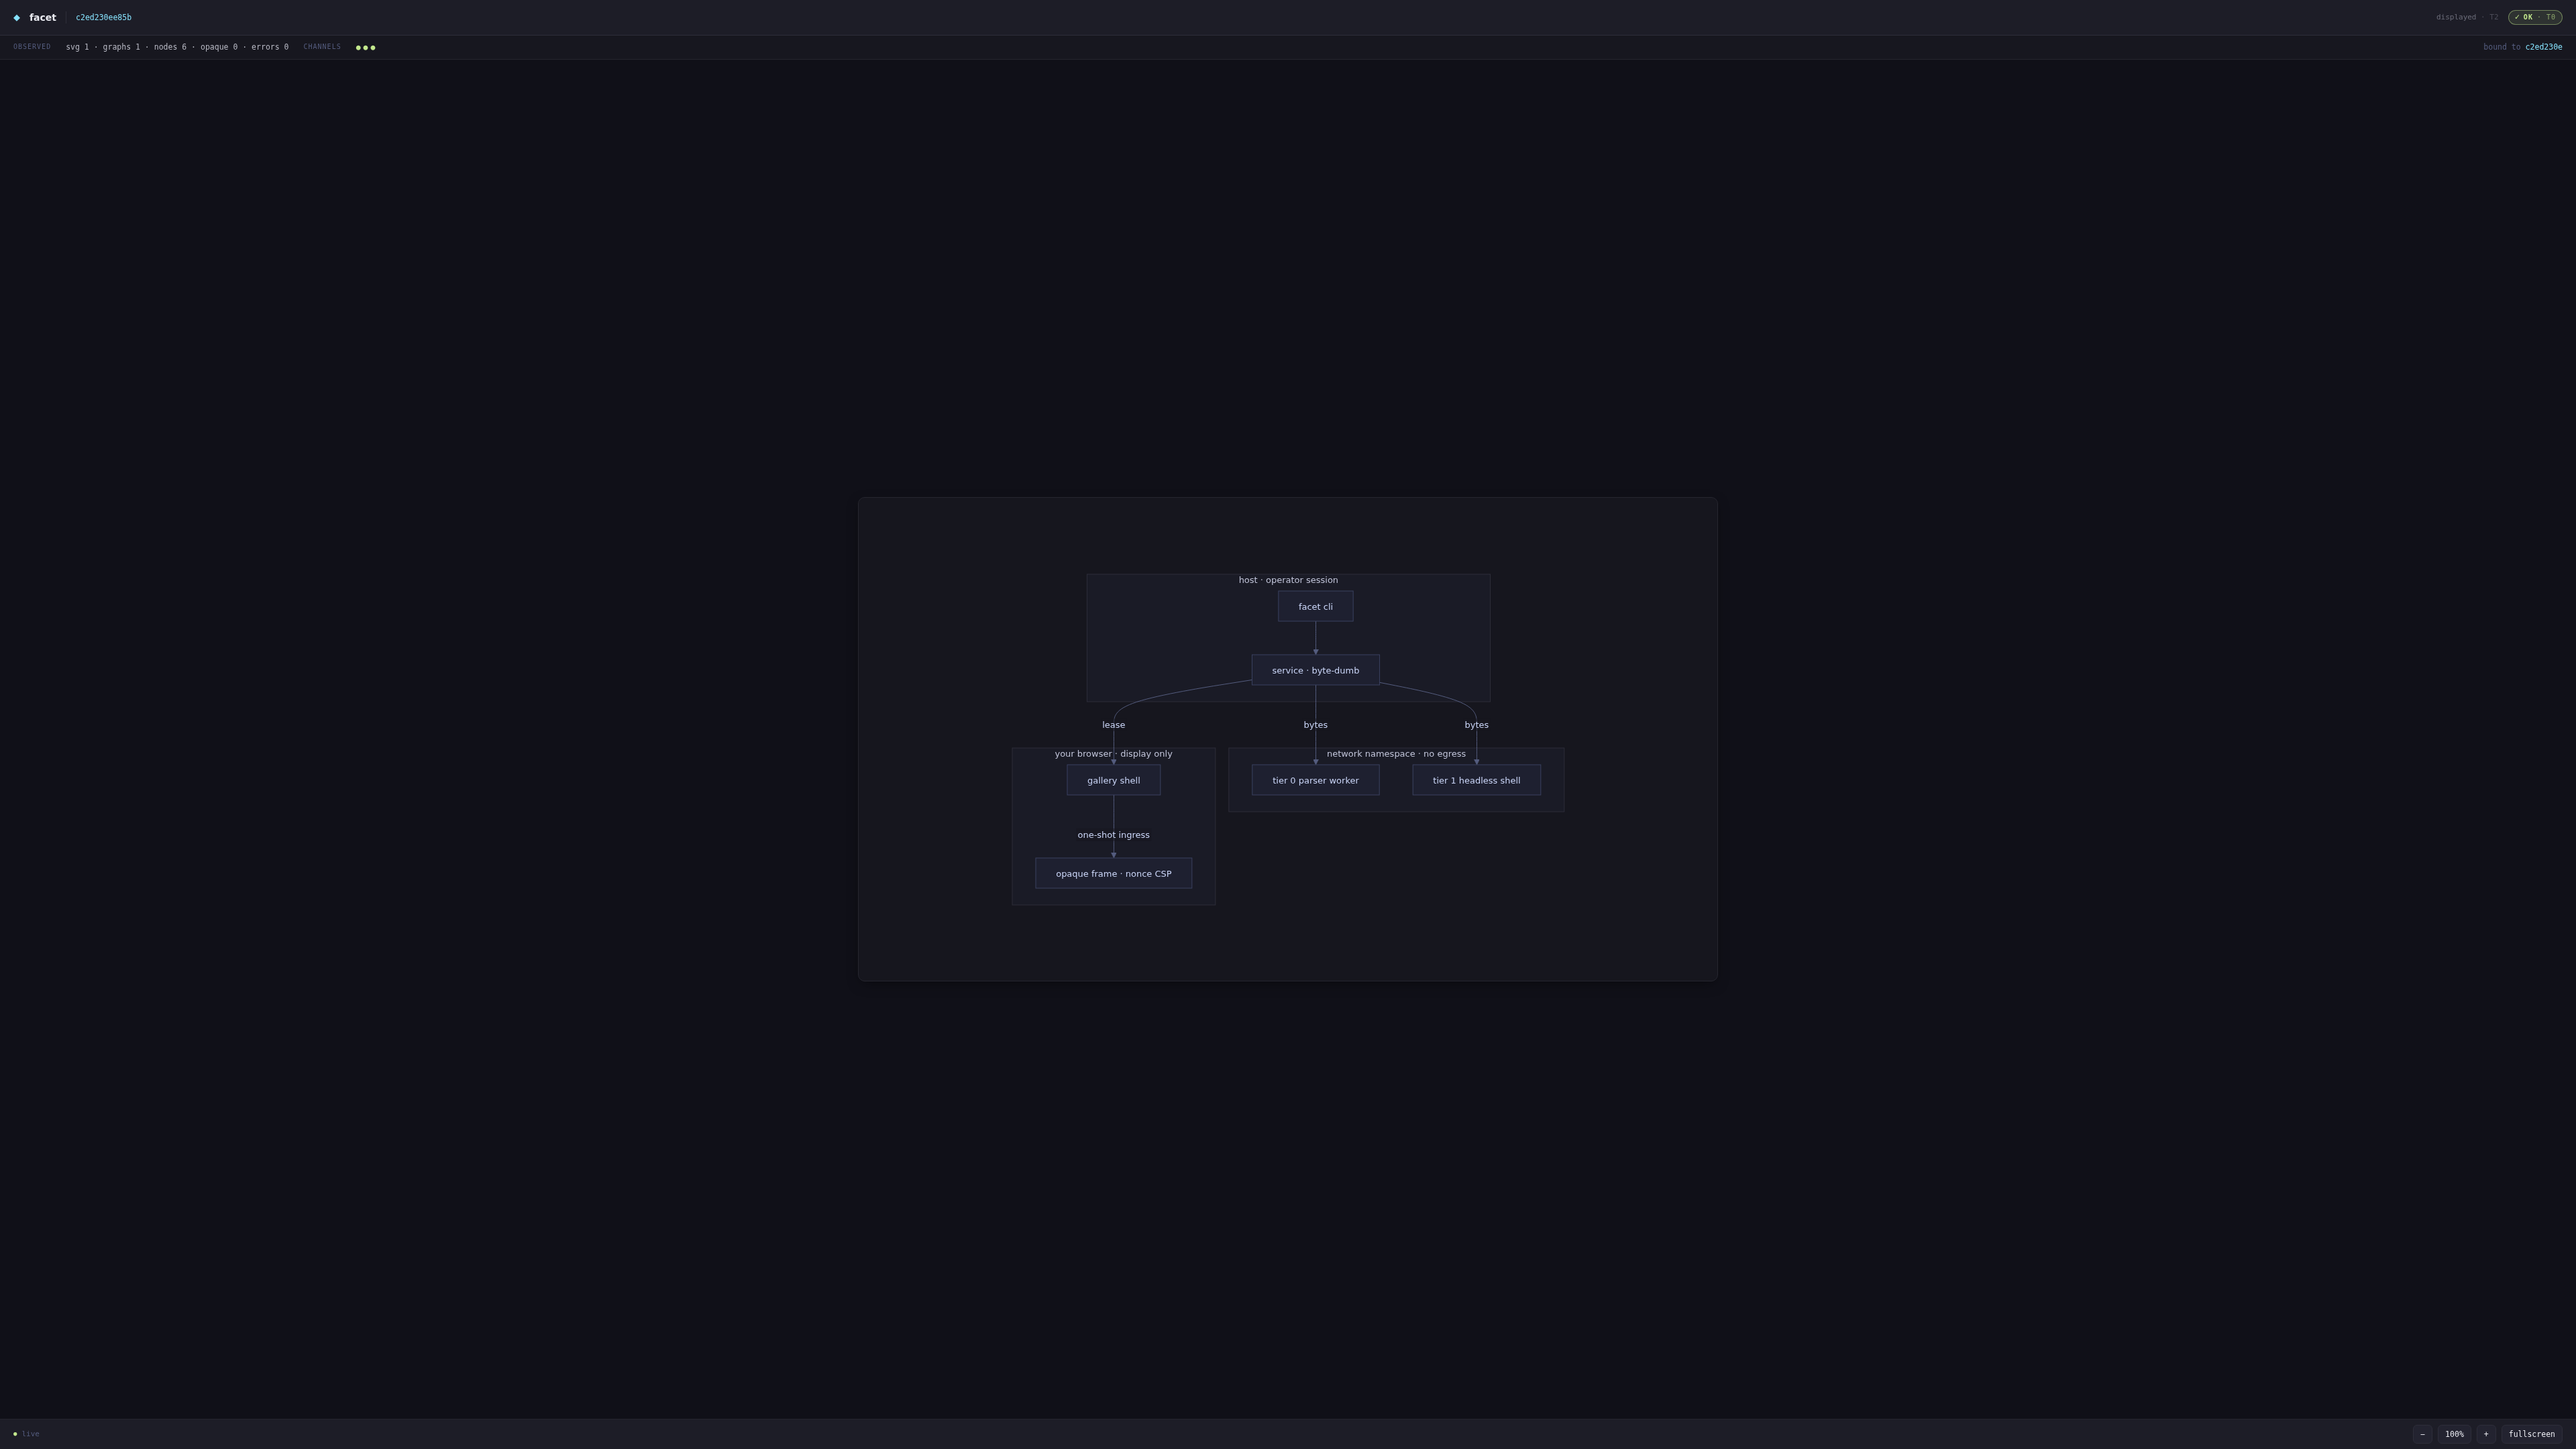
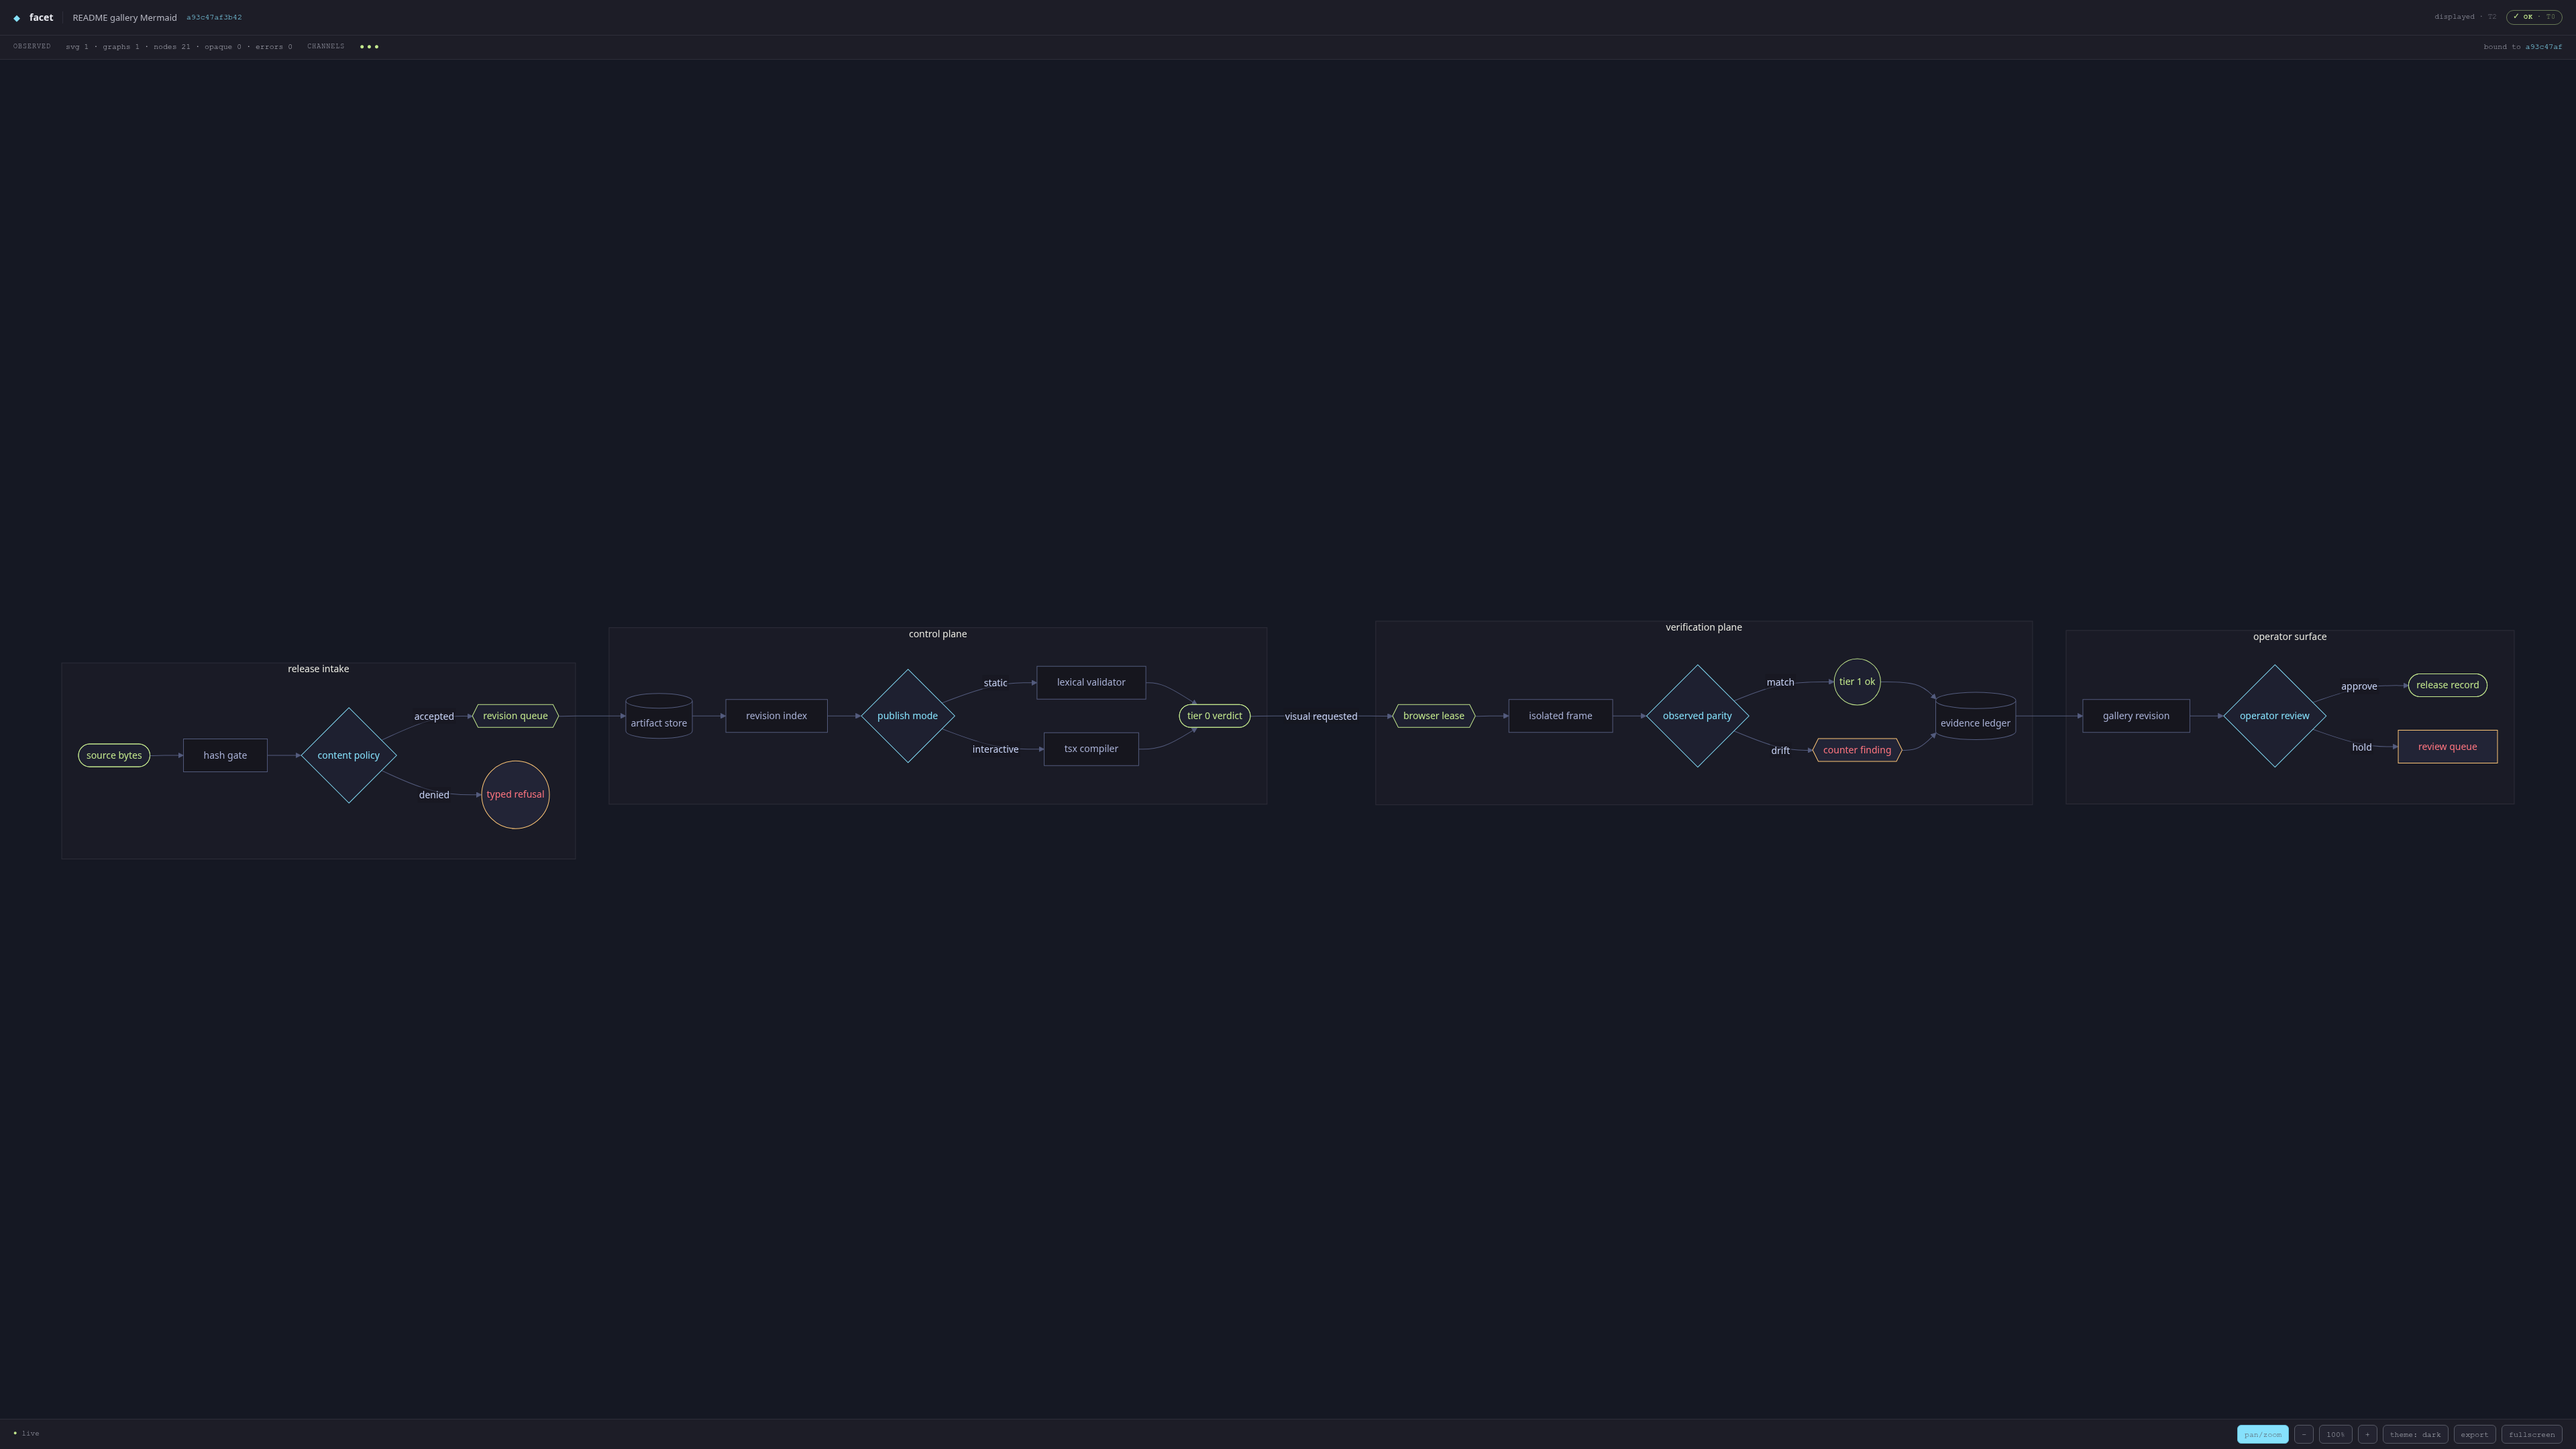
docs: refresh README for current contracts + regenerate gallery screenshots

diff --git a/tests/unit/gallery-evidence-docs.test.ts b/tests/unit/gallery-evidence-docs.test.ts
@@ -99,4 +99,12 @@ describe("gallery evidence documentation", () => {
     expect(skill).toMatch(/operator-only/i);
     expect(skill).toMatch(/do not run `?facet open`?.*agent/is);
   });
+
+  test("README names current publish verdict and WebP evidence behavior", () => {
+    const readme = readRepositoryFile("README.md");
+
+    expect(readme).toMatch(/publish envelope[\s\S]*verdict/i);
+    expect(readme).toMatch(/WebP[\s\S]*whole artifact/i);
+    expect(readme).toMatch(/system[\s\S]*dark[\s\S]*light|system[\s\S]*light[\s\S]*dark/i);
+  });
 });

diff --git a/README.md b/README.md
@@ -21,19 +21,23 @@ Facet stores the source bytes without interpreting them, then asks independent v
 
 - Publishes `markdown`, `mermaid`, `svg`, `chart`, static `html`, and declared-mode `tsx` artifacts.
 - Stores immutable revisions and keeps a ring of up to 50 per artifact.
-- Runs Tier 0 browser-free checks, Tier 1 isolated browser validation, and Tier 2 display-only inspection.
+- Records a stored Tier 0 verdict in every publish response; Tier 1 isolated browser validation and Tier 2 display-only inspection are explicit follow-up work.
 - Compares lexical expectations with protocol, isolated-world, and page-shim observations.
 - Serves a sandboxed, loopback gallery with revision-bound evidence and SSE updates.
-- Retains Tier 1 screenshots, console output, and protocol observations under an owner-only evidence directory.
+- Retains Tier 1 WebP captures of the whole artifact, console output, and protocol observations under an owner-only evidence directory. Interactive TSX declares animated WebP eligibility; static artifacts become eligible only when live CSS or Web Animations are detected.
+- Defaults the gallery theme to `system`; users can choose `dark` or `light` and the tab keeps that choice.
+- File-mode export returns local artifact and required sidecar paths with byte counts; `--include-bytes` opts into base64 in the envelope.
 - Keeps the service byte-dumb: renderers and parsers stay outside `src/service/**`.
 
 <p align="center">
-  <img src="design/screenshots/gallery-mermaid.png" alt="facet gallery — a mermaid artifact on the verification stage, verdict badge ok · T0, evidence strip showing svg 1 · graphs 1 · nodes 6 · opaque 0 · errors 0" width="820">
+  <img src="design/screenshots/gallery-mermaid.png" alt="facet gallery — current Mermaid fixture in the resolved dark theme" width="820">
 </p>
 
 <p align="center">
-  <img src="design/screenshots/gallery-chart.png" alt="facet gallery — a Vega-Lite chart artifact rendered under the frozen nonce-only CSP" width="820">
+  <img src="design/screenshots/gallery-chart.png" alt="facet gallery — current chart fixture in the resolved light theme" width="820">
 </p>
+
+Current gallery captures use the Mermaid fixture in resolved dark and the chart fixture in resolved light. They are 3840×2160 PNG display assets; Tier 1 evidence is WebP for the whole artifact.
 
 ## Verdict language
 
@@ -46,12 +50,13 @@ The gallery and CLI use the same wire enum, glyph, hue, and treatment.
 | `partial:layout_unverified`  | `◐`   | `#ffc777` | outline; screenshot required     |
 | `partial:opaque_content`     | `◐`   | `#ffc777` | outline; screenshot required     |
 | `partial:external_resources` | `◐`   | `#ffc777` | outline; screenshot required     |
+| `partial:unstable`           | `◐`   | `#ffc777` | outline; screenshot required     |
 | `tampered`                   | `⊘`   | `#ff757f` | filled alarm badge               |
 | `timeout`                    | `◌`   | `#737aa2` | dim outline                      |
 | `shim_only`                  | `◇`   | `#737aa2` | dim outline                      |
 | `probe_only`                 | `◈`   | `#737aa2` | dim outline                      |
 
-`partial:external_resources` means an artifact references external HTTPS images the no-egress verifier could not load. `insecure:unvalidated` means level 3 intentionally skipped validation. A missing verdict is `UNVERIFIED` with no tier.
+`partial:external_resources` means an artifact references external HTTPS images the no-egress verifier could not load. An `ok` verdict can still carry `Verdict.screenshotError.code: "screenshot_unavailable"` when whole-artifact capture cannot be produced; it records the limit without changing the validation result. `insecure:unvalidated` means level 3 intentionally skipped validation. A missing verdict is `UNVERIFIED` with no tier.
 
 ## Why not just screenshot it?
 
@@ -66,9 +71,9 @@ A screenshot is evidence of pixels. It is not evidence that the page's own repor
 ## What's in the box
 
 - **CLI contract** — `create`, `publish`, `list`, `read-back`, `status`, `open`, `promote`, `instantiate`, `pin`, and `export` (source/render with a mandatory sidecar).
-- **Artifact types** — Markdown, Mermaid, SVG, Vega-Lite chart specs, and static HTML. Chart data must be inline; external `data.url` forms are rejected. HTML is script-free, has no `<style>` block or `style=` attribute, and styles from a vendored Tailwind/daisyUI vocabulary ([reference](docs/reference/html.md)).
+- **Artifact types** — Markdown, Mermaid, SVG, Vega-Lite chart specs, static HTML, and static or interactive TSX. Chart data must be inline; external `data.url` forms are rejected. HTML is script-free, has no `<style>` block or `style=` attribute, and styles from a vendored Tailwind/daisyUI vocabulary ([reference](docs/reference/html.md)).
 - **Gallery** — an offline-built shell with a direct-frame render API, a restrictive per-artifact CSP, zoom controls, and revision SSE.
-- **Validation** — a 5 MiB source cap, up to 64 Mermaid blocks and 10,000 Mermaid nodes, and a 1 MiB SVG cap with 16 roots. Tier 1 uses pinned `chrome-headless-shell` `151.0.7922.77`.
+- **Validation** — a 5 MiB source cap, up to 64 Mermaid blocks and 10,000 Mermaid nodes, and a 1 MiB SVG cap with 16 roots. Tier 1 uses pinned `chrome-headless-shell` `151.0.7922.77`; v9 evidence-format metadata is documented in the [Export reference](docs/reference/export.md).
 - **Templates** — eleven checked-in starting points in [`templates/`](templates/), documented in [`templates/README.md`](templates/README.md).
 
 ## Quickstart
@@ -78,16 +83,20 @@ Requires Bun `1.4.0` or newer. Bun 1.4.0 fixes oven-sh/bun#37230, the fd-reuse b
 ```sh
 bun install
 
-bun ./src/cli/main.ts status
-bun ./src/cli/main.ts create --project-id demo --slug chart --title "Chart"
-printf '%s' "$SOURCE" | bun ./src/cli/main.ts publish --artifact-id <id> --type markdown --file -
-bun ./src/cli/main.ts read-back --artifact-id <id> --revision-sha <sha> --tier 0
-bun ./src/cli/main.ts read-back --artifact-id <id> --revision-sha <sha> --tier visual
-bun ./src/cli/main.ts open --artifact-id <id> --revision-sha <sha>
-bun ./src/cli/main.ts export <artifactId> --format source
+export FACET_HOME="$(mktemp -d)"
+SOURCE='# Facet quickstart'
+bun ./src/cli/main.ts status --start
+ARTIFACT_ID="$(bun ./src/cli/main.ts create --project-id demo --slug chart --title "Chart" | bun -e 'const x=JSON.parse(await Bun.stdin.text()); if(!x.ok) throw new Error(x.error.code); console.log(x.data.artifact.id)')"
+PUBLISH="$(printf '%s' "$SOURCE" | bun ./src/cli/main.ts publish --artifact-id "$ARTIFACT_ID" --type markdown)"
+printf '%s\n' "$PUBLISH" | bun -e 'const x=JSON.parse(await Bun.stdin.text()); if(!x.ok || !x.data.verdict) throw new Error("publish failed"); console.log(JSON.stringify(x.data.verdict))'
+REVISION_SHA="$(printf '%s\n' "$PUBLISH" | bun -e 'const x=JSON.parse(await Bun.stdin.text()); console.log(x.data.revision.sha256)')"
+bun ./src/cli/main.ts read-back --artifact-id "$ARTIFACT_ID" --tier 0
+bun ./src/cli/main.ts read-back --artifact-id "$ARTIFACT_ID" --revision-sha "$REVISION_SHA" --tier visual
+EXPORT_DIR="$(mktemp -d)"
+bun ./src/cli/main.ts export "$ARTIFACT_ID" --format source --out "$EXPORT_DIR/artifact.md"
 ```
 
-This checkout invocation needs no global link. Use the SHA returned by the publish envelope. Tier 0 is browser-free; visual read-back is explicit Tier 1 escalation. `open` is display-only: it asks a human to inspect the sandboxed gallery and does not verify it. The CLI always writes one JSON envelope per verb to stdout; diagnostics go to stderr.
+This checkout invocation needs no global link. It uses disposable runtime and export directories. The read-back without `--revision-sha` uses the latest revision; pass the SHA returned by publish when reproducibility matters. Tier 0 is browser-free; visual read-back is explicit Tier 1 escalation. Each verb writes one JSON envelope to stdout; `ok` confirms command transport, so inspect `data.verdict` in the publish envelope, including a stored `status: "error"`.
 
 Facet's insecure mode is an explicit, boot-only opt-in (`FACET_INSECURE=1|2|3`) and is never the default. It weakens or skips validation by level, marks every affected verdict, and speaks loudly at startup, in envelopes, in the CLI, and in the gallery. `FACET_INSECURE_AUTO=1` permits startup probe fallback but never selects level 3. Restart after changing either environment variable.
 
@@ -100,7 +109,7 @@ Facet's insecure mode is an explicit, boot-only opt-in (`FACET_INSECURE=1|2|3`) 
 
 ## Status
 
-Facet is a young, single-maintainer project. It targets local and single-operator workflows: the service binds to loopback, has no user-account authentication by design, and still protects routes with install/operator bearer capabilities. Interfaces may shift before 1.0. The publish-to-visible performance path is recorded rather than enforced while the Bun 1.3.14 pin wedged its CDP transport; Bun 1.4.0 fixes oven-sh/bun#37230, so the path is ready for re-measurement.
+Facet is a young, single-maintainer project. It targets local and single-operator workflows: the service binds to loopback, has no user-account authentication by design, and still protects routes with install/operator bearer capabilities. Interfaces may shift before 1.0. Bun 1.4.0 includes the verified fd-reuse fix for CDP-pipe browser runs. Current TSX compiler and runtime evidence lives in [TSX measurements](docs/verification/tsx-measurements.md).
 
 ## License
 
